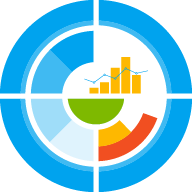
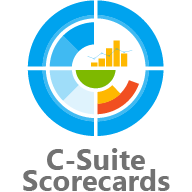
prepare for publishment

diff --git a/privacy-policy.html b/privacy-policy.html
@@ -3,7 +3,7 @@
 <head>
   <meta charset="UTF-8" />
   <meta name="viewport" content="width=device-width, initial-scale=1.0"/>
-  <title>Privacy Policy – MS Teams Scorecards App</title>
+  <title>Privacy Policy – C-Suite Scorecards App</title>
   <style>
     body {
       font-family: Arial, sans-serif;
@@ -49,14 +49,14 @@
 <body>
 
 <header>
-  <h1>Privacy Policy – MS Teams Scorecards App</h1>
+  <h1>Privacy Policy – C-Suite Scorecards App</h1>
 </header>
 
 <main>
   <p>Effective Date: April 10, 2025</p>
 
   <h2>1. Introduction</h2>
-  <p>Silicon Software Solutions is committed to protecting your privacy. This Privacy Policy outlines how we collect, use, and store your information when you use the MS Teams Scorecards App.</p>
+  <p>Silicon Software Solutions is committed to protecting your privacy. This Privacy Policy outlines how we collect, use, and store your information when you use the MS C-Suite Scorecards App.</p>
 
   <h2>2. Information We Collect</h2>
   <p>We may collect the following information:</p>

diff --git a/terms-of-use.html b/terms-of-use.html
@@ -3,7 +3,7 @@
 <head>
     <meta charset="UTF-8">
     <meta name="viewport" content="width=device-width, initial-scale=1.0">
-    <title>Terms of Use – MS Teams Scorecards App</title>
+    <title>Terms of Use – C-Suite Scorecards App</title>
     <style>
         body {
             font-family: Arial, sans-serif;
@@ -52,7 +52,7 @@
 <body>
 
 <header>
-    <h1>Terms of Use – MS Teams Scorecards App</h1>
+    <h1>Terms of Use – C-Suite Scorecards App</h1>
 </header>
 
 <section>
@@ -63,7 +63,7 @@
     <p>The App is intended for internal organizational use only. You may not reverse engineer, copy, or use the App for unlawful purposes.</p>
 
     <h2>3. Intellectual Property</h2>
-    <p>All content within the App is owned by [Your Company Name] or its licensors.</p>
+    <p>All content within the App is owned by Silicon Software Solutions or its licensors.</p>
 
     <h2>4. Disclaimer</h2>
     <p>The App is provided 'as is' without warranties of any kind.</p>
